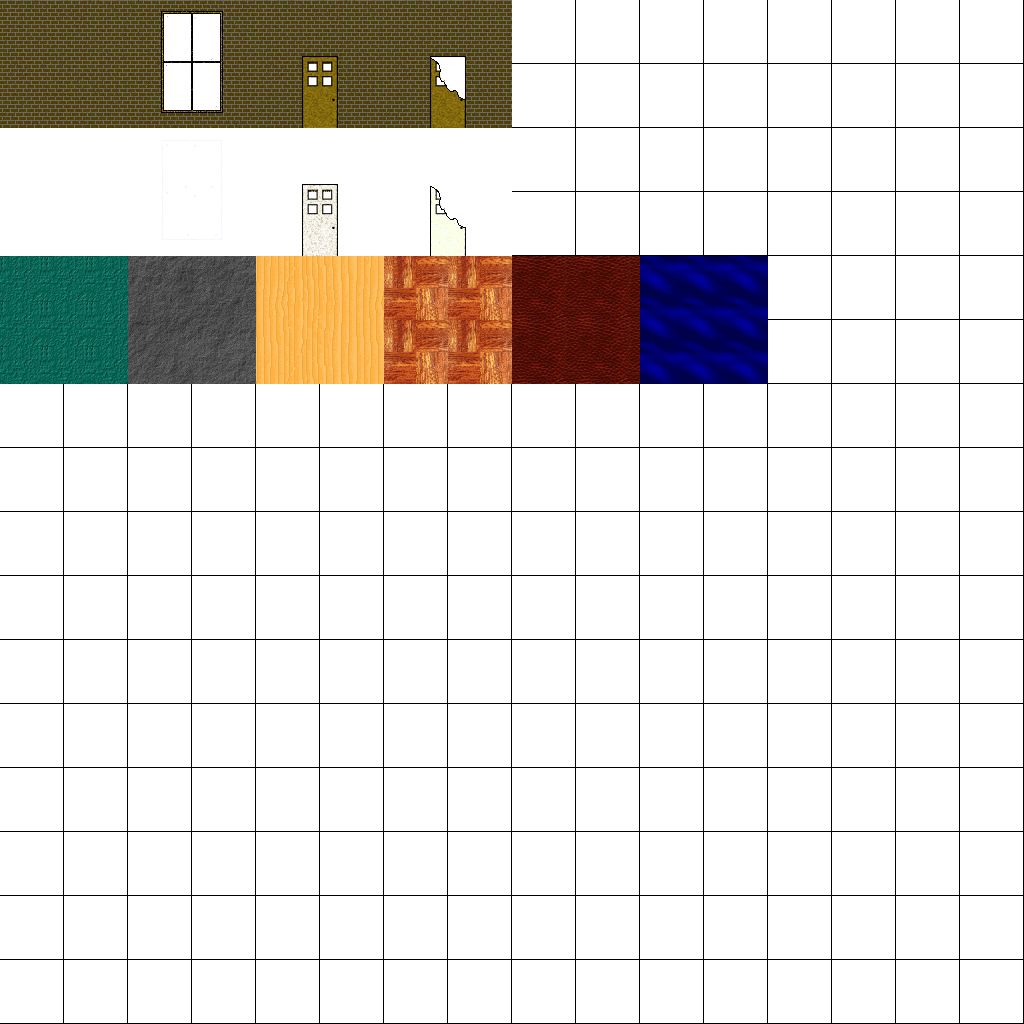
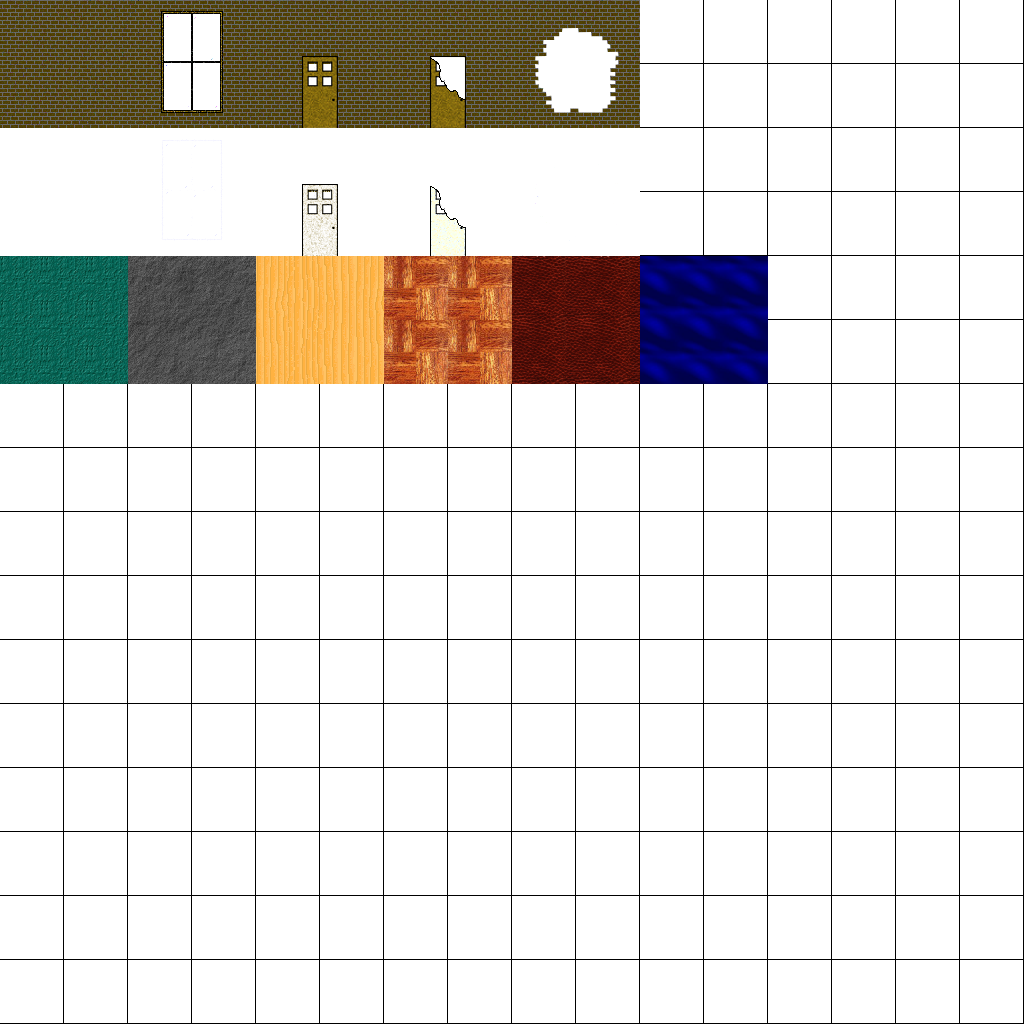
Added a broken brick wall entrance, Zombies can now be seen through broken walls and doors; ZAG Version 0.3.4.4

Changed region(s): [[0.5, 0.0, 0.625, 0.125]]

diff --git a/src/com/RoguePanda/ZAG/GameCanvas.java b/src/com/RoguePanda/ZAG/GameCanvas.java
@@ -34,11 +34,6 @@ public class GameCanvas extends JPanel {
     GameCanvas(CardGUI aThis) {
         cgui = aThis;
         bo = new BuildingObject(0, new Point(400, 0), b);
-        z = new BasicZombie(
-                "BasicZombie" + cgui.currentGame.currentLevel.entities.size(),
-                15,
-                new Point(500, 0),
-                cgui.currentGame.currentLevel);
         ArrayList<BuildingObject> bos = new ArrayList<>();
         bos.add(bo);
         int[][] chunks = new int[3][3];
@@ -55,8 +50,13 @@ public class GameCanvas extends JPanel {
         }
         chunks[1][1] = 1;
         chunks[0][2] = 2;
-        chunks[2][2] = 3;
+        chunks[2][2] = 4;
         b = new Building(chunks, chunks2, bos, new Point(500, 0), cgui.currentGame.currentLevel);
+        z = new BasicZombie(
+                "BasicZombie" + cgui.currentGame.currentLevel.entities.size(),
+                15,
+                new Point(b.location),
+                cgui.currentGame.currentLevel);
         z.inside = b;
         cgui.currentGame.currentLevel.buildings.add(b);
         this.setSize(1600, 600);
@@ -88,6 +88,7 @@ public class GameCanvas extends JPanel {
     @Override
     public void paint(Graphics g) {
         super.paint(g);
+        Rectangle2D r;
         if (cgui.currentGame.player.dead) {
             //Death Screen
         }
@@ -101,18 +102,39 @@ public class GameCanvas extends JPanel {
                             g.drawPolygon(bos.boundingBox);
                         }
                     }
+
+                }
+            } catch (Exception be) {
+            }
+            try {
+                for (Entity e : cgui.currentGame.currentLevel.entities) {
+                    if (e.inside != null) {
+                        r = e.boundingBox;
+                        g.drawImage(e.sprite, (int) r.getMinX(), (int) r.getMinY(), null);
+                        if (cgui.debug) {
+                            g.setColor(Color.green);
+                            g.drawRect((int) r.getMinX(), (int) r.getMinY(), (int) r.getWidth(), (int) r.getHeight());
+                            g.setColor(Color.red);
+                            g.drawRect((int) e.location.getX() - 1, (int) e.location.getY() - 1, 3, 3);
+                        }
+                    }
+                }
+            } catch (Exception bu) {
+            }
+            try {
+                for (Building b : cgui.currentGame.currentLevel.buildings) {
                     if (!b.inside) {
                         g.drawImage(b.outsideSprite, b.location.x, b.location.y, null);
                     } else {
                         g.drawImage(b.outsideSpriteClear, b.location.x, b.location.y, null);
                     }
                     if (cgui.debug) {
-                        for (Rectangle r : b.entrances) {
-                            g.drawRect(r.x, r.y, r.width, r.height);
+                        for (Rectangle re : b.entrances) {
+                            g.drawRect(re.x, re.y, re.width, re.height);
                         }
                     }
                 }
-            } catch (Exception be) {
+            } catch (Exception ex) {
             }
             if (cgui.currentGame.player.dead) {
                 g.setFont(new java.awt.Font("Tahoma", 0, 36));
@@ -124,7 +146,7 @@ public class GameCanvas extends JPanel {
             } else {
                 g.setColor(Color.black);
                 g.fillRect(100, 400, 100, 100);
-                Rectangle2D r = cgui.currentGame.player.boundingBox;
+                r = cgui.currentGame.player.boundingBox;
                 g.drawImage(cgui.currentGame.player.sprite, (int) r.getMinX(), (int) r.getMinY(), null);
                 if (cgui.debug) {
                     g.setColor(Color.green);
@@ -132,7 +154,7 @@ public class GameCanvas extends JPanel {
                 }
                 try {
                     for (Entity e : cgui.currentGame.currentLevel.entities) {
-                        if (e.inside == cgui.currentGame.player.inside) {
+                        if (e.inside == null && cgui.currentGame.player.inside == null) {
                             r = e.boundingBox;
                             g.drawImage(e.sprite, (int) r.getMinX(), (int) r.getMinY(), null);
                             if (cgui.debug) {

diff --git a/src/com/RoguePanda/ZAG/Building.java b/src/com/RoguePanda/ZAG/Building.java
@@ -39,6 +39,9 @@ class Building {
             for (int y = 0; y < outsidechunks[0].length; y++) {
                 if (outsidechunks[x][y] == 2 || outsidechunks[x][y] == 3) {
                     entrances.add(new Rectangle(size * x + loc.x + 46, size * y + loc.y + size + 34, size - 46 * 2, size - 56));
+                }if(outsidechunks[x][y] == 4){
+
+                    entrances.add(new Rectangle(size * x + loc.x + 23, size * y + loc.y + size + 6, size - 46, size - 44));
                 }
                 osg.drawImage(ImageManipulator.scaleImage(
                         ImageManipulator.selectFromSheet(

diff --git a/src/com/RoguePanda/ZAG/Entity.java b/src/com/RoguePanda/ZAG/Entity.java
@@ -108,6 +108,7 @@ public abstract class Entity {
             location = l;
             boundingBox = new BoundBox(l.getX(), l.getY(), 0, 0);
             inside = null;
+            System.out.println(name + " created in " + inside);
         } catch (Exception ex) {
             Logger.getLogger(Entity.class.getName()).log(Level.SEVERE, null, ex);
         }
